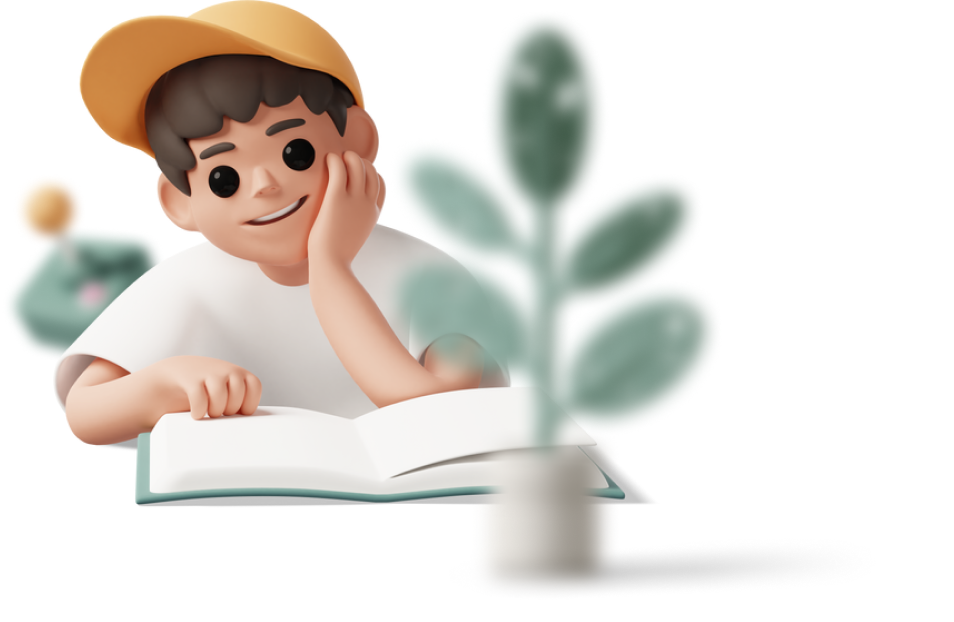
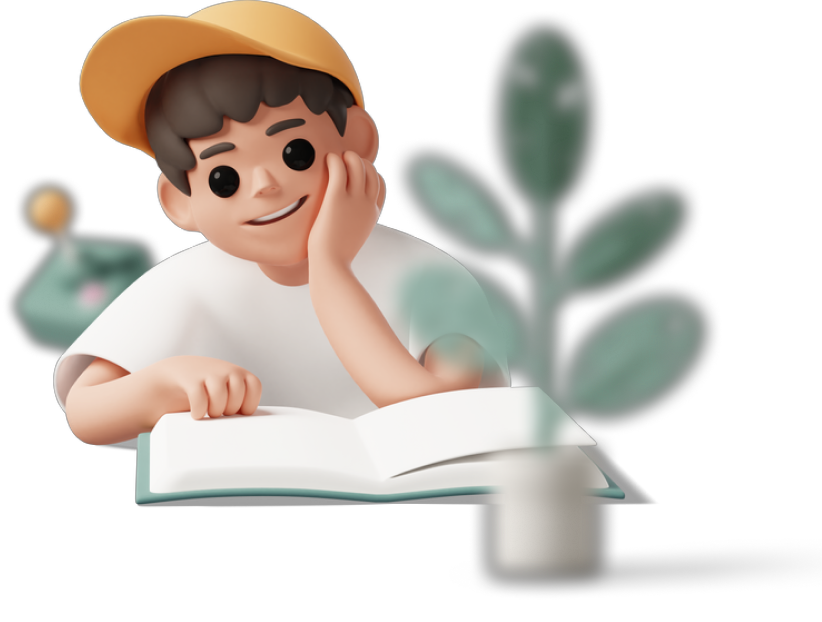
make responsive

diff --git a/frontend/src/module/LandingPage/components/FirstParagraph/index.tsx b/frontend/src/module/LandingPage/components/FirstParagraph/index.tsx
@@ -1,63 +1,73 @@
-import { Image, Text, Button, Title } from "@mantine/core";
+import { Image, Text, Button, Title, MediaQuery } from "@mantine/core";
 import BodyText from "common/components/BodyText";
 import { useStyles } from "./styles";
-export default function LandingPage() {
+export default function FirstParagraph() {
   const { classes } = useStyles();
   return (
-    <div className={classes.FirstContainer}>
-      <div
-        style={{
-          flexDirection: "column",
-          alignItems: "flex-start",
-        }}
-      >
-        <div style={{ paddingLeft: "240px" }}>
-          <div>
-            <BodyText size="sm" color="#2B788B">
-              E-COURSE PLATFORM
-            </BodyText>
-          </div>
+    <MediaQuery
+      smallerThan="xl"
+      styles={{
+        flexDirection: "column",
+        width: "100%",
+        height: "1000px",
+        gap: "30px",
+        alignContent: "center",
+      }}
+    >
+      <div className={classes.FirstContainer}>
+        <div
+          style={{
+            minWidth: "550px",
+            flexDirection: "column",
+            alignItems: "flex-start",
+          }}
+        >
+          <div style={{}}>
+            <div>
+              <BodyText size="sm" color="#2B788B">
+                E-COURSE PLATFORM
+              </BodyText>
+            </div>
 
-          <div style={{ marginTop: "24px" }}>
-            <Title order={1}>
-              Learning and
-              <br />
-              teaching online,
-              <br />
-              made easy.
-            </Title>
-          </div>
+            <div style={{ marginTop: "24px" }}>
+              <Title order={1}>
+                Learning and
+                <br />
+                teaching online,
+                <br />
+                made easy.
+              </Title>
+            </div>
 
-          <div style={{ marginTop: "30px" }}>
-            <BodyText size="sm" color="#757575">
-              Practice your english and learn new things
-              <br /> with the platform.
-            </BodyText>
-          </div>
+            <div style={{ marginTop: "30px" }}>
+              <BodyText size="sm" color="#757575">
+                Practice your english and learn new things
+                <br /> with the platform.
+              </BodyText>
+            </div>
 
-          <Button
-            style={{
-              display: "flex",
-              flexDirection: "row",
-              width: "165",
-              height: "44",
-              background: "#C3DCE3",
-              borderRadius: "100px",
-              marginTop: "32px",
-            }}
-          >
-            <Text size={"xs"} color="#2B788B" style={{ fontWeight: "700" }}>
-              About platform
-            </Text>
-          </Button>
+            <Button className={classes.ButtonStyle}>
+              <Text size={"xs"} color="#2B788B" style={{ fontWeight: "700" }}>
+                About platform
+              </Text>
+            </Button>
+          </div>
+        </div>
+        <div
+          style={{
+            maxWidth: "822px",
+            maxHeight: "620px",
+            padding: "20px",
+          }}
+        >
+          <Image
+            // width={"933px"}
+            // height={"620px"}
+            style={{ marginRight: "-150px" }}
+            src="/LandingPage/man-and-trees.png"
+          ></Image>
         </div>
       </div>
-
-      <Image
-        width={"933px"}
-        height={"620px"}
-        src="/LandingPage/man-and-trees.png"
-      ></Image>
-    </div>
+    </MediaQuery>
   );
 }

diff --git a/frontend/src/module/LandingPage/components/SecondParagraph/index.tsx b/frontend/src/module/LandingPage/components/SecondParagraph/index.tsx
@@ -1,0 +1,39 @@
+import { Image, Text, Button, Title, MediaQuery } from "@mantine/core";
+import BodyText from "common/components/BodyText";
+import { useStyles } from "./styles";
+
+export default function SecondParagraph() {
+  const { classes } = useStyles();
+  return (
+    <MediaQuery
+      smallerThan="xl"
+      styles={{
+        flexDirection: "column",
+        width: "100%",
+        height: "1000px",
+        gap: "30px",
+        alignContent: "center",
+      }}
+    >
+      <div className={classes.FirstContainer}>
+        <div style={{ maxWidth: "580px", maxHeight: "445px" }}>
+          <Image src="/LandingPage/teaching.png"></Image>
+        </div>
+
+        <div>
+          <div>
+            <Title>
+              Learn a language
+              <br /> in a playful way
+            </Title>
+          </div>
+          <div style={{ marginTop: "30px" }}>
+            <BodyText size="sm" color="#757575">
+              Make learning words more fun with mini-games
+            </BodyText>
+          </div>
+        </div>
+      </div>
+    </MediaQuery>
+  );
+}

diff --git a/frontend/src/pages/index.tsx b/frontend/src/pages/index.tsx
@@ -1,16 +1,9 @@
-import { Text, Title } from "@mantine/core";
-import BodyText from "common/components/BodyText";
-import LandingPage from "module/LandingPage/components/FirstParagraph";
+import LandingPage from "module/LandingPage";
 
 export default function home() {
-  // return <div style={{ fontFamily: "Montserrat" }}>Banana Split Team</div>;
   return (
     <>
       <LandingPage></LandingPage>
-      {/* <Title order={1}>Learning and teaching online, made easy.</Title>
-      <Title order={2}>Learning and teaching online, made easy.</Title>
-      <Title order={3}>Learning and teaching online, made easy.</Title>
-      <Title order={4}>Learning and teaching online, made easy.</Title> */}
     </>
   );
 }

diff --git a/frontend/src/module/LandingPage/components/FirstParagraph/styles.ts b/frontend/src/module/LandingPage/components/FirstParagraph/styles.ts
@@ -10,5 +10,22 @@ export const useStyles = createStyles((theme) => ({
     justifyContent: "center",
     alignItems: "center",
     backgroundColor: "#F6F5F4",
+    paddingLeft: "50px",
+  },
+  ButtonStyle: {
+    display: "flex",
+    flexDirection: "row",
+    width: "165",
+    height: "44",
+    background: "#C3DCE3",
+    borderRadius: "100px",
+    marginTop: "32px",
+  },
+  MobilePage: {
+    flexDirection: "column",
+    width: "100%",
+    height: "1000px",
+    gap: "30px",
+    alignContent: "center",
   },
 }));

diff --git a/frontend/src/module/LandingPage/components/SecondParagraph/styles.ts b/frontend/src/module/LandingPage/components/SecondParagraph/styles.ts
@@ -1,0 +1,14 @@
+import { createStyles } from "@mantine/core";
+
+export const useStyles = createStyles((theme) => ({
+  FirstContainer: {
+    display: "flex",
+    width: "100%",
+    height: "740px",
+    alignSelf: "stretch",
+    flexDirection: "row",
+    justifyContent: "center",
+    alignItems: "center",
+    backgroundColor: "#FFFFFF",
+  },
+}));

diff --git a/frontend/src/module/LandingPage/index.tsx b/frontend/src/module/LandingPage/index.tsx
@@ -1,0 +1,11 @@
+import FirstParagraph from "./components/FirstParagraph";
+import SecondParagraph from "./components/SecondParagraph";
+
+export default function LandingPage() {
+  return (
+    <div>
+      <FirstParagraph></FirstParagraph>
+      <SecondParagraph></SecondParagraph>
+    </div>
+  );
+}
